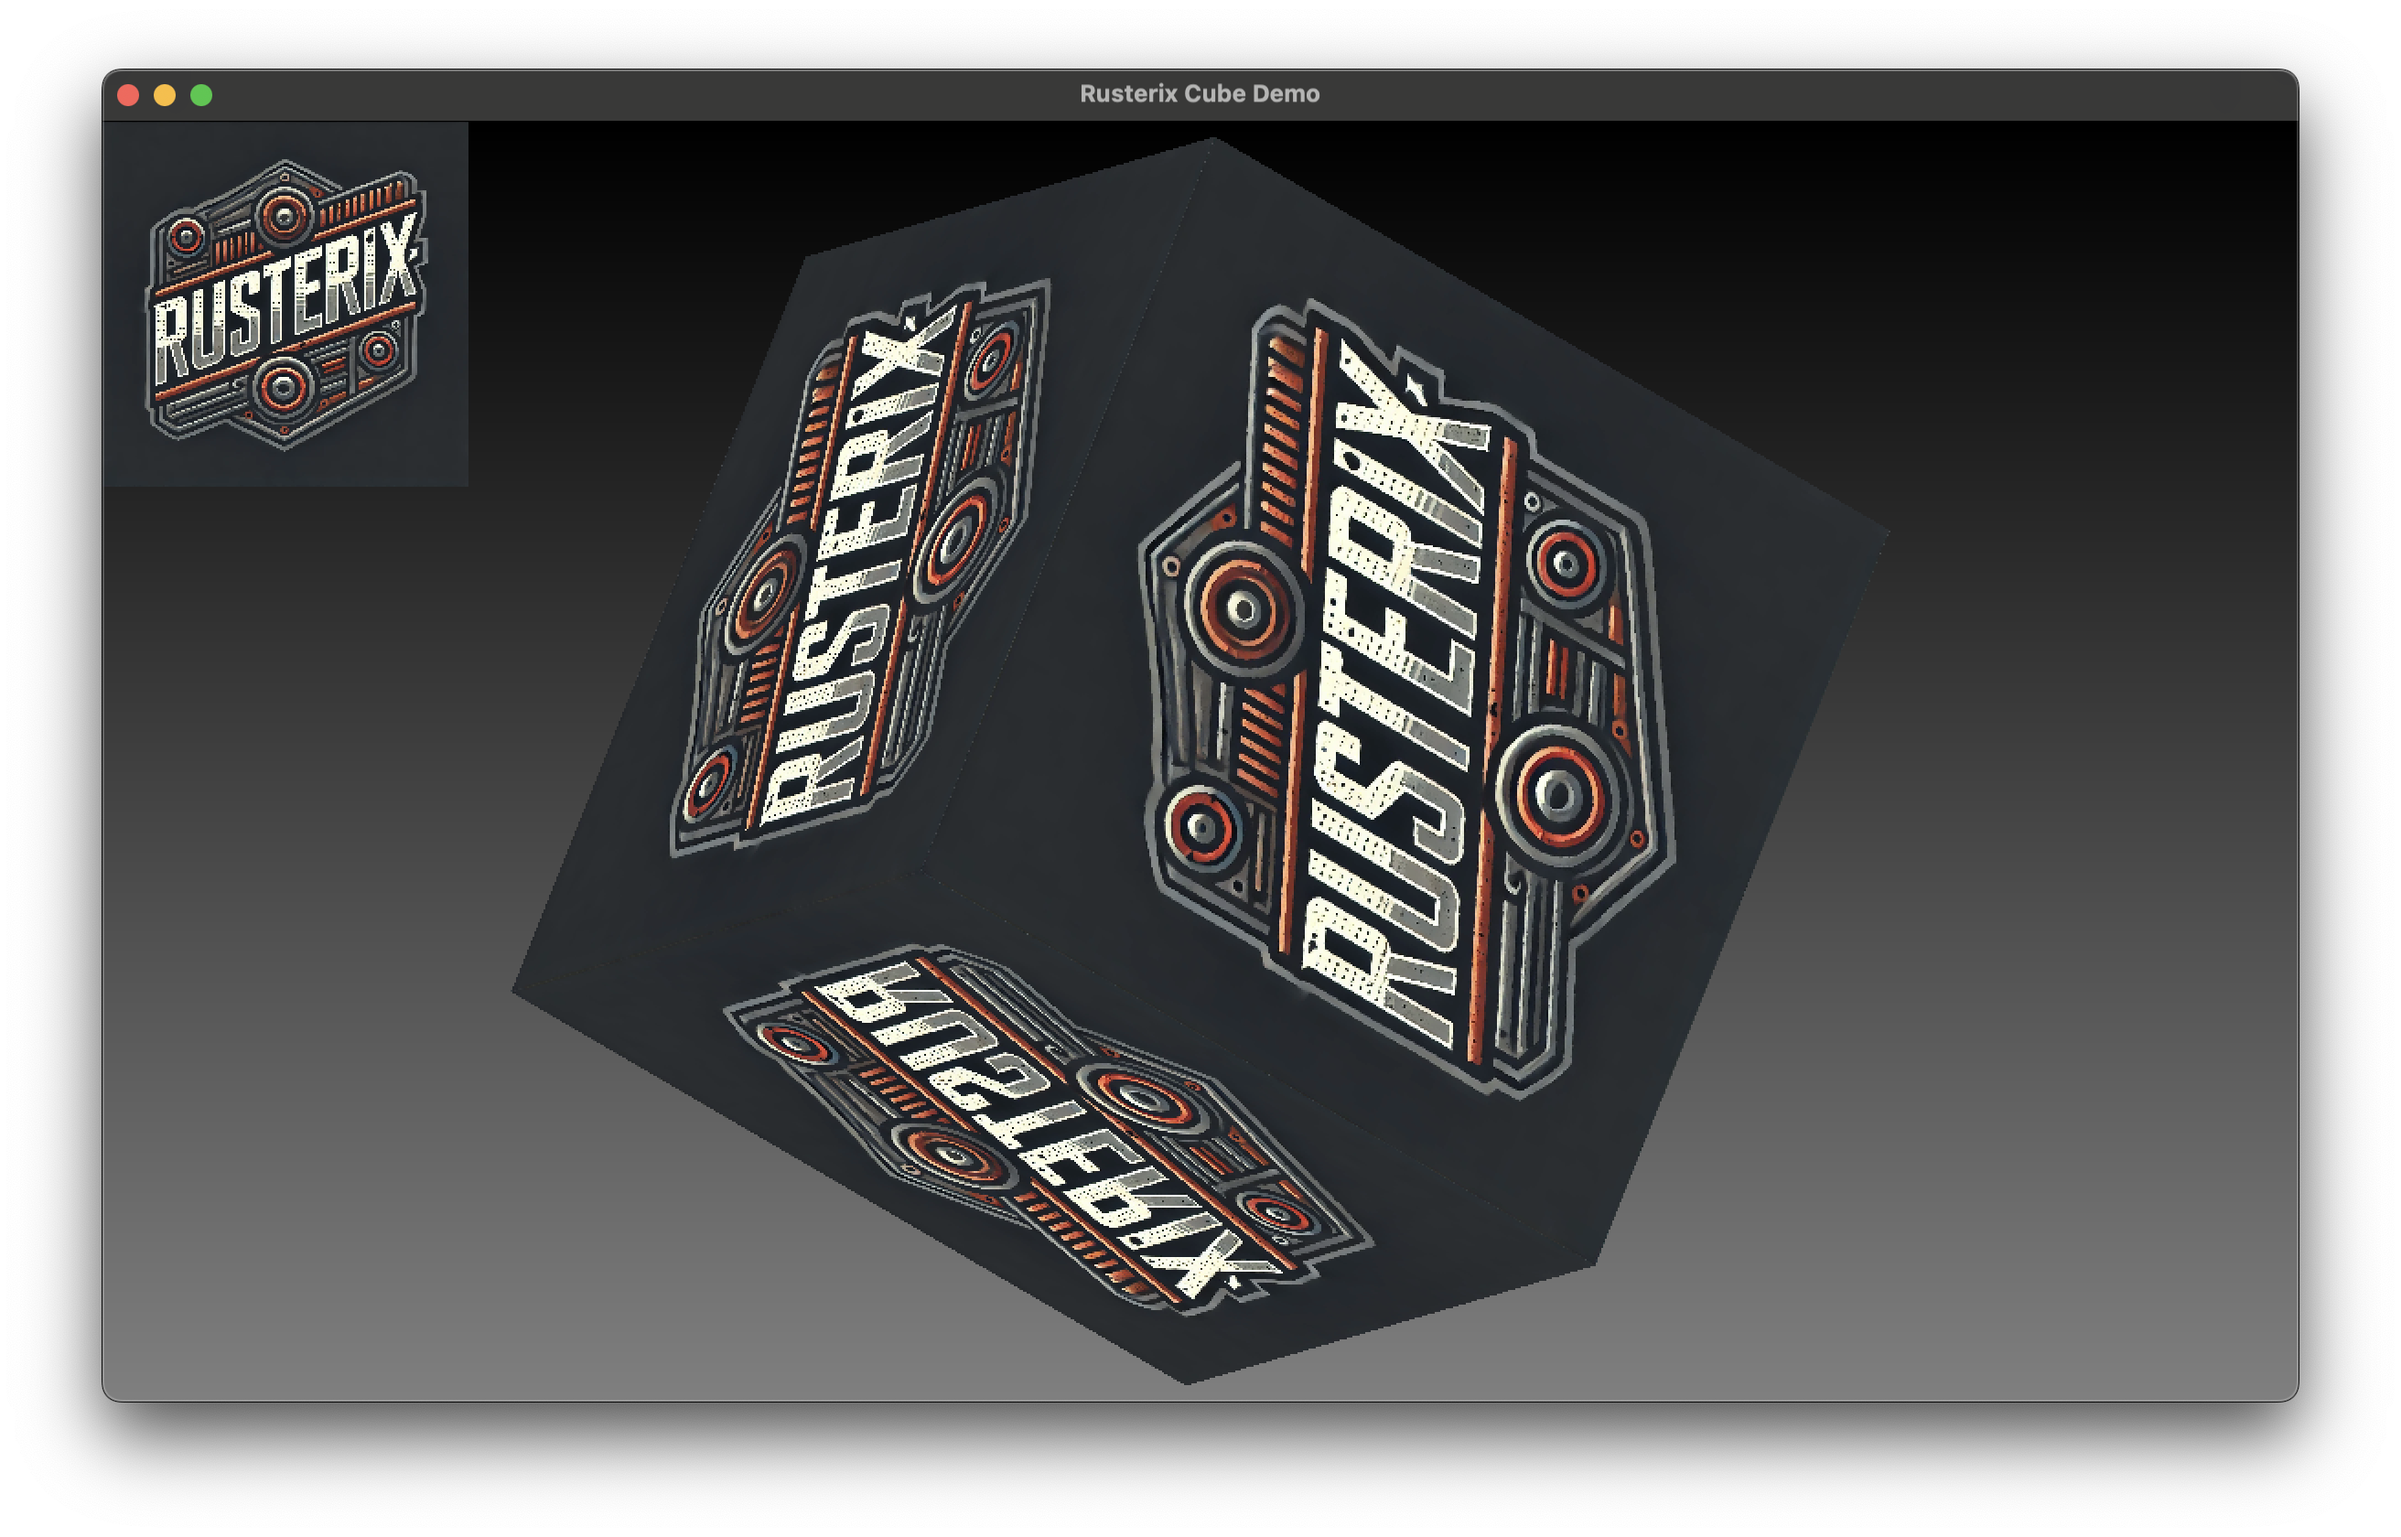
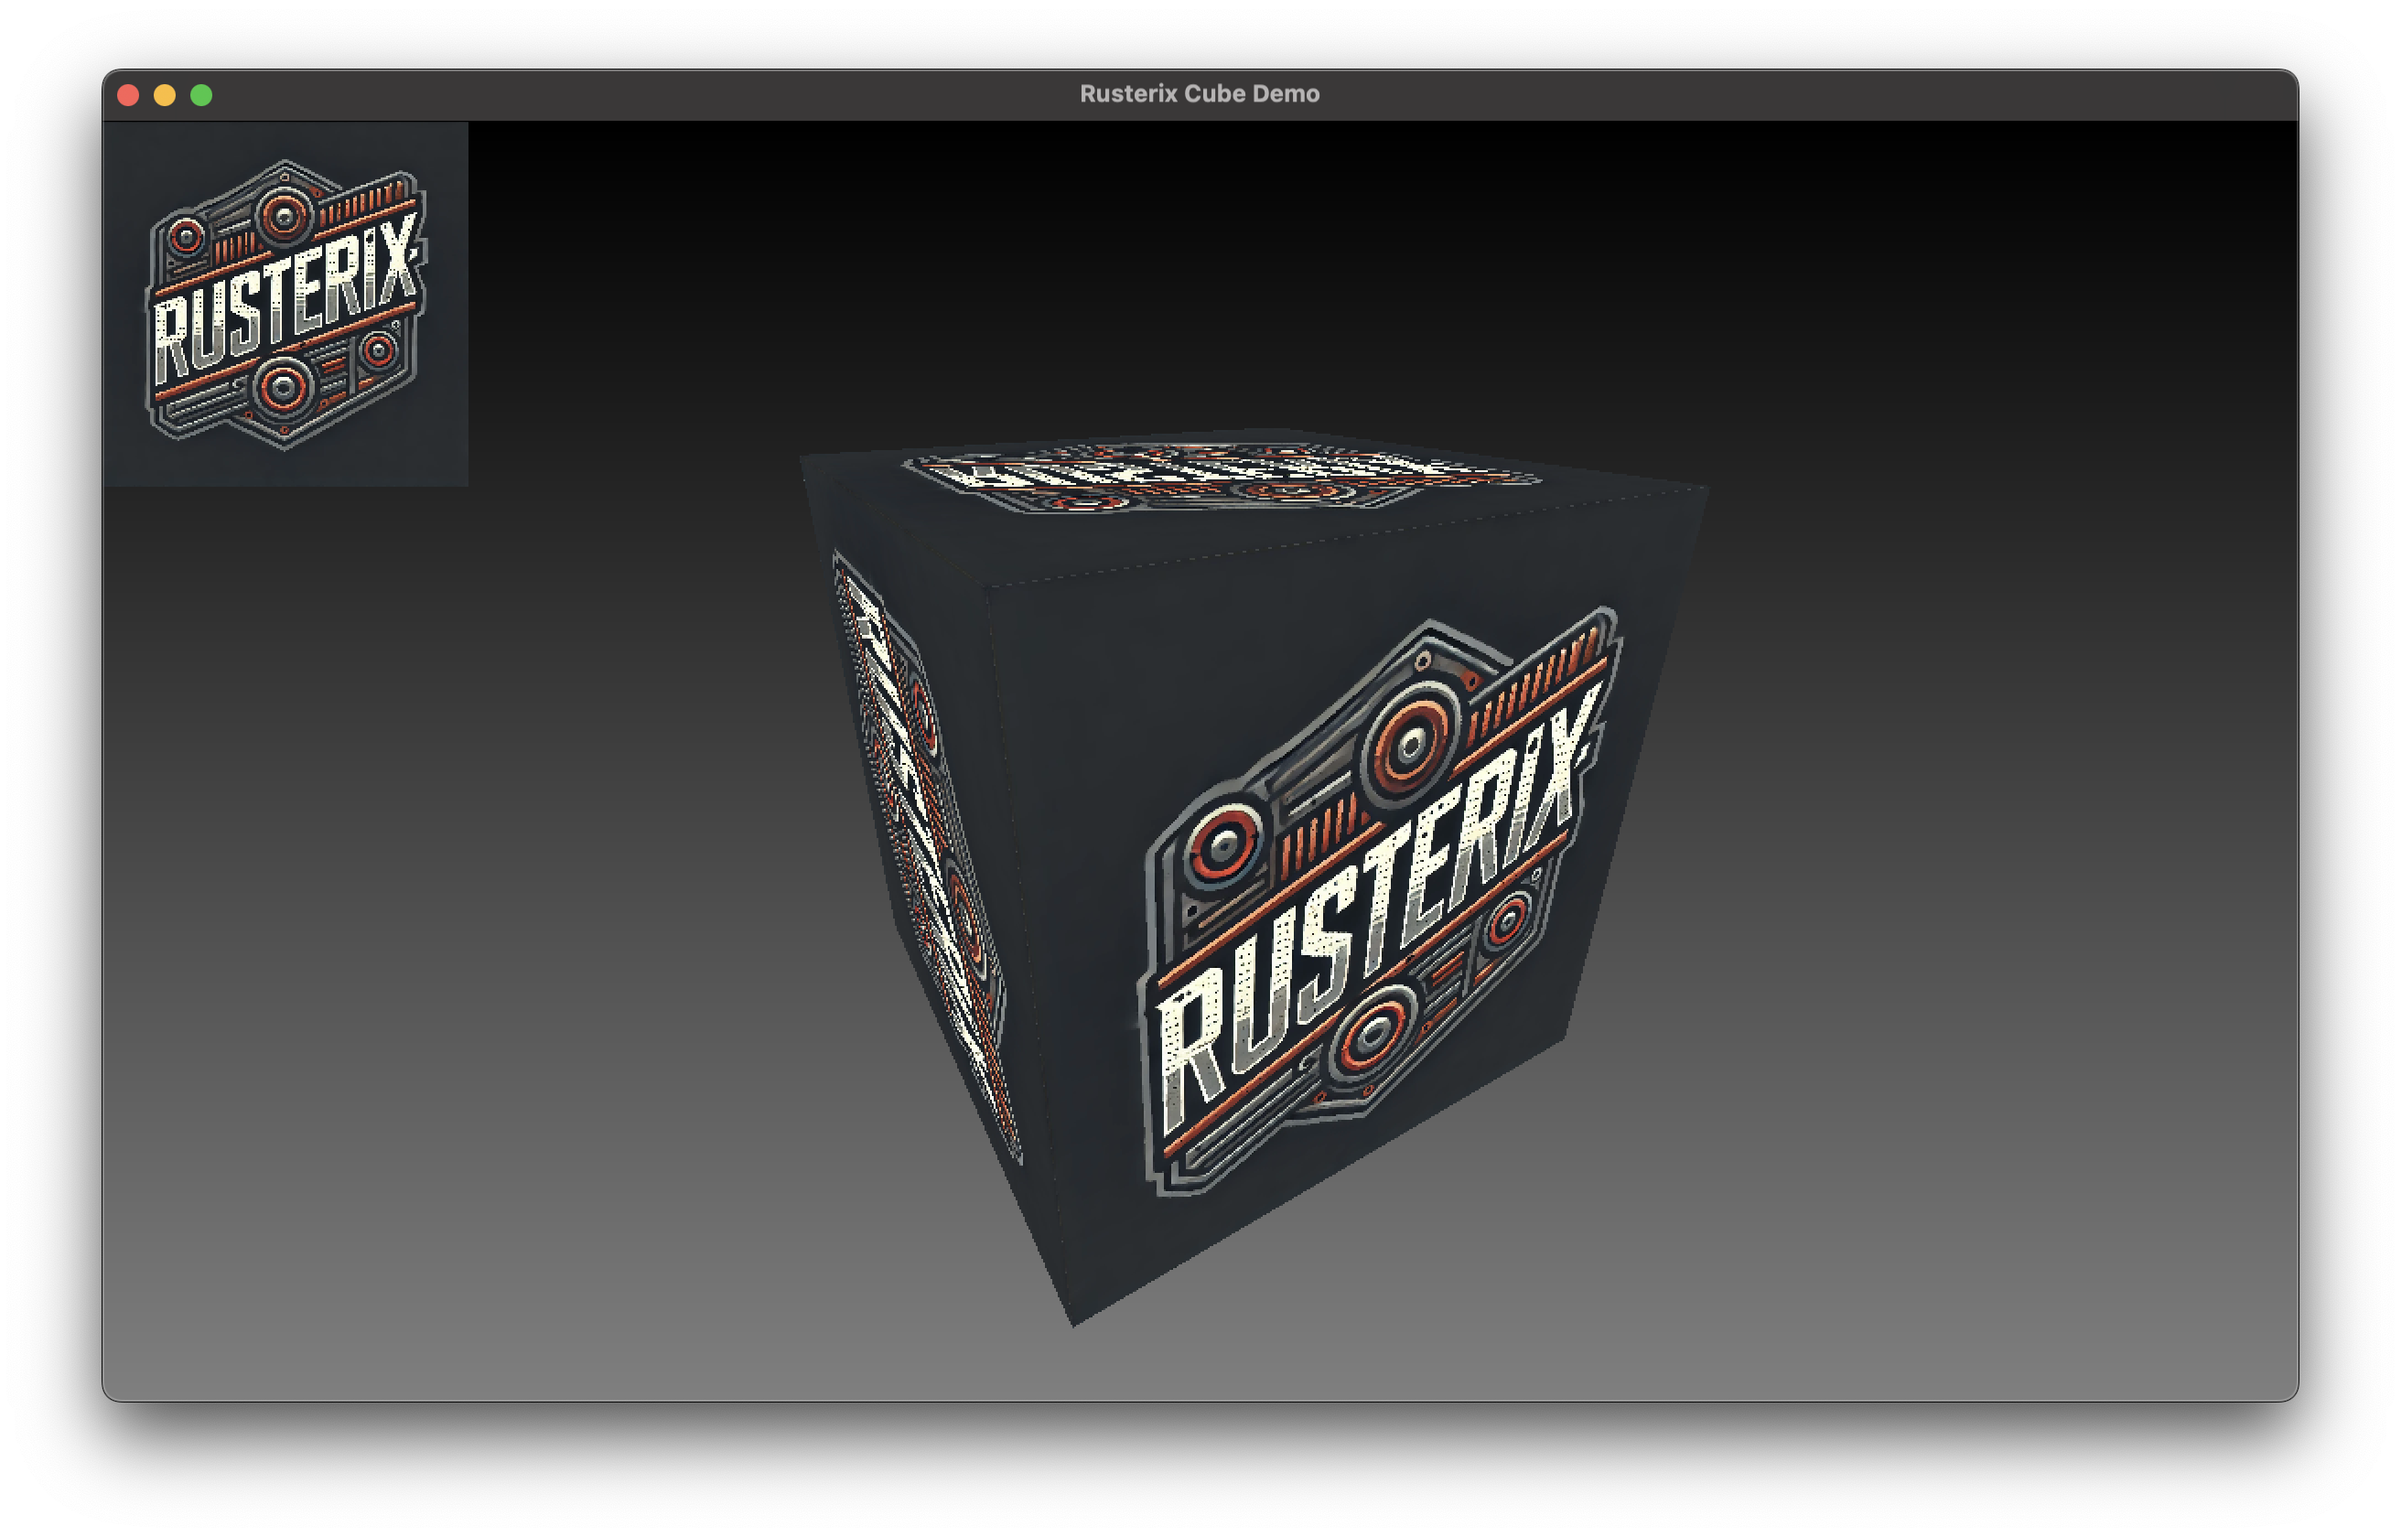
Fixes

Changed region(s): [[0.2188, 0.0929, 0.75, 0.8976]]

diff --git a/src/rasterizer.rs b/src/rasterizer.rs
@@ -333,7 +333,7 @@ impl Rasterizer {
 
                                                 // Interpolate reciprocal depth
                                                 let one_over_z = z0 * w[0] + z1 * w[1] + z2 * w[2];
-                                                let z = 1.0 - (1.0 / one_over_z);
+                                                let z = 1.0 / one_over_z;
 
                                                 let zidx =
                                                     (ty - tile.y) * tile.width + (tx - tile.x);
@@ -341,31 +341,38 @@ impl Rasterizer {
                                                 if z < z_buffer[zidx] {
                                                     z_buffer[zidx] = z;
 
-                                                    // Perspective-correct interpolation of UVs
-                                                    let u_over_z = uv0[0] * z0 * w[0]
-                                                        + uv1[0] * z1 * w[1]
-                                                        + uv2[0] * z2 * w[2];
-                                                    let v_over_z = uv0[1] * z0 * w[0]
-                                                        + uv1[1] * z1 * w[1]
-                                                        + uv2[1] * z2 * w[2];
+                                                    let alpha = w[0];
+                                                    let beta = w[1];
+                                                    let gamma = w[2];
 
-                                                    let u = u_over_z / one_over_z;
-                                                    let v = v_over_z / one_over_z;
+                                                    // Perform the interpolation of all U/w and V/w values using barycentric weights and a factor of 1/w
+                                                    let mut interpolated_u = (uv0[0] / v0[3])
+                                                        * alpha
+                                                        + (uv1[0] / v1[3]) * beta
+                                                        + (uv2[0] / v2[3]) * gamma;
+                                                    let mut interpolated_v = (uv0[1] / v0[3])
+                                                        * alpha
+                                                        + (uv1[1] / v1[3]) * beta
+                                                        + (uv2[1] / v2[3]) * gamma;
+
+                                                    // Also interpolate the value of 1/w for the current pixel
+                                                    let interpolated_reciprocal_w = (1.0 / v0[3])
+                                                        * alpha
+                                                        + (1.0 / v1[3]) * beta
+                                                        + (1.0 / v2[3]) * gamma;
+
+                                                    // Now we can divide back both interpolated values by 1/w
+                                                    interpolated_u /= interpolated_reciprocal_w;
+                                                    interpolated_v /= interpolated_reciprocal_w;
 
                                                     // Sample the texture
                                                     let texel = textures[batch.texture_index]
                                                         .sample(
-                                                            u,
-                                                            v,
+                                                            interpolated_u,
+                                                            interpolated_v,
                                                             batch.sample_mode,
                                                             batch.repeat_mode,
                                                         );
-                                                    // let texel = [
-                                                    //     (u * 255.0) as u8,
-                                                    //     (v * 255.0) as u8,
-                                                    //     0,
-                                                    //     255,
-                                                    // ];
 
                                                     // Write to framebuffer
                                                     let idx = ((ty - tile.y) * tile.width

diff --git a/src/batch/batchd3.rs b/src/batch/batchd3.rs
@@ -180,12 +180,12 @@ impl Batch<[f32; 4]> {
             .iter()
             .map(|&v| {
                 let result = matrix * Vec4::new(v[0], v[1], v[2], v[3]);
-                let w = 1.0; //result.w;
+                let w = result.w;
                 [
                     ((result.x / w) * 0.5 + 0.5) * viewport_width,
                     ((result.y / w) * 0.5 + 0.5) * viewport_height,
-                    result.z / result.w,
-                    1.0,
+                    result.z / w,
+                    result.w,
                 ]
             })
             .collect();

diff --git a/examples/cube.rs b/examples/cube.rs
@@ -24,7 +24,9 @@ impl TheTrait for Cube {
     {
         let scene = Scene::from_static(
             vec![Batch::from_rectangle(0.0, 0.0, 200.0, 200.0)],
-            vec![Batch::from_box(-0.5, -0.5, -0.5, 1.0, 1.0, 1.0).sample_mode(SampleMode::Nearest)],
+            vec![Batch::from_box(-0.5, -0.5, -0.5, 1.0, 1.0, 1.0)
+                .sample_mode(SampleMode::Nearest)
+                .cull_mode(CullMode::Back)],
         )
         .background(Box::new(VGrayGradientShader::new()))
         .textures(vec![Texture::from_image(Path::new("images/logo.png"))]);

diff --git a/src/texture.rs b/src/texture.rs
@@ -152,10 +152,6 @@ impl Texture {
 
     /// Samples the texture at given UV coordinates.
     pub fn sample_nearest(&self, u: f32, v: f32) -> [u8; 4] {
-        // Clamp UV coordinates to [0, 1]
-        // let u = u.clamp(0.0, 1.0);
-        // let v = v.clamp(0.0, 1.0);
-
         // Map UV coordinates to pixel indices
         let tex_x = (u * (self.width as f32 - 1.0)).round() as usize;
         let tex_y = (v * (self.height as f32 - 1.0)).round() as usize;

diff --git a/examples/obj.rs b/examples/obj.rs
@@ -56,7 +56,7 @@ impl TheTrait for ObjDemo {
                 ctx.height as f32,
                 0.1,
                 100.0,
-            ) * Mat4::scaling_3d(Vec3::new(0.3, 0.3, 0.3)),
+            ) * Mat4::scaling_3d(Vec3::new(0.35, 0.35, 0.35)),
         );
 
         let _stop = get_time();

diff --git a/src/camera/d3orbit.rs b/src/camera/d3orbit.rs
@@ -14,7 +14,7 @@ impl D3Camera for D3OrbitCamera {
     fn new() -> Self {
         Self {
             target: Vec3::zero(),
-            distance: -10.0,
+            distance: -1.5,
             azimuth: std::f32::consts::PI / 2.0,
             elevation: 0.0,
             up: Vec3::unit_y(),
